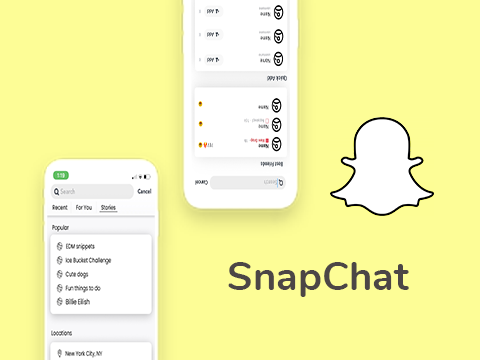
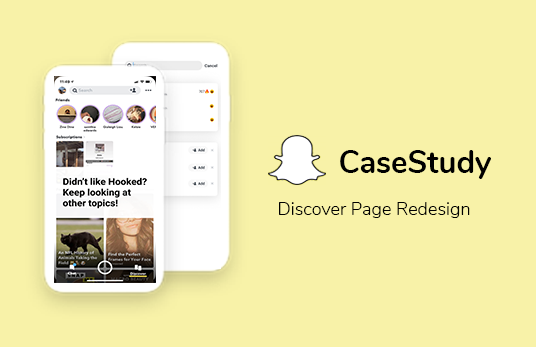
Fixed Table Resizing Issues and Updated SnapChat CaseStudy Thumbnail

diff --git a/gaoportfolio/src/components/Card.js b/gaoportfolio/src/components/Card.js
@@ -8,7 +8,7 @@ function Card(props) {
     return(
         <Row>
             <div className="mt-4">
-                <img className="g-card-image" width="544" height="377" src={props.item.imgSrc} alt={props.item.imgSrc} />
+                <img className="g-card-image" width="544" height="377" style={{height:'auto', width:'100%'}} src={props.item.imgSrc} alt={props.item.imgSrc} />
             </div>
         </Row>
     );

diff --git a/gaoportfolio/src/components/ProjectTable.js b/gaoportfolio/src/components/ProjectTable.js
@@ -1,7 +1,7 @@
 import React from 'react';
 
-import microdot from '../assets/test.png';
-import snapchat from '../assets/test.png';
+import microdot from '../assets/newsnapirena.png';
+import snapchat from '../assets/newsnapirena.png';
 import Container from 'react-bootstrap/Container';
 import Row from 'react-bootstrap/Row';
 import Col from 'react-bootstrap/Col';
